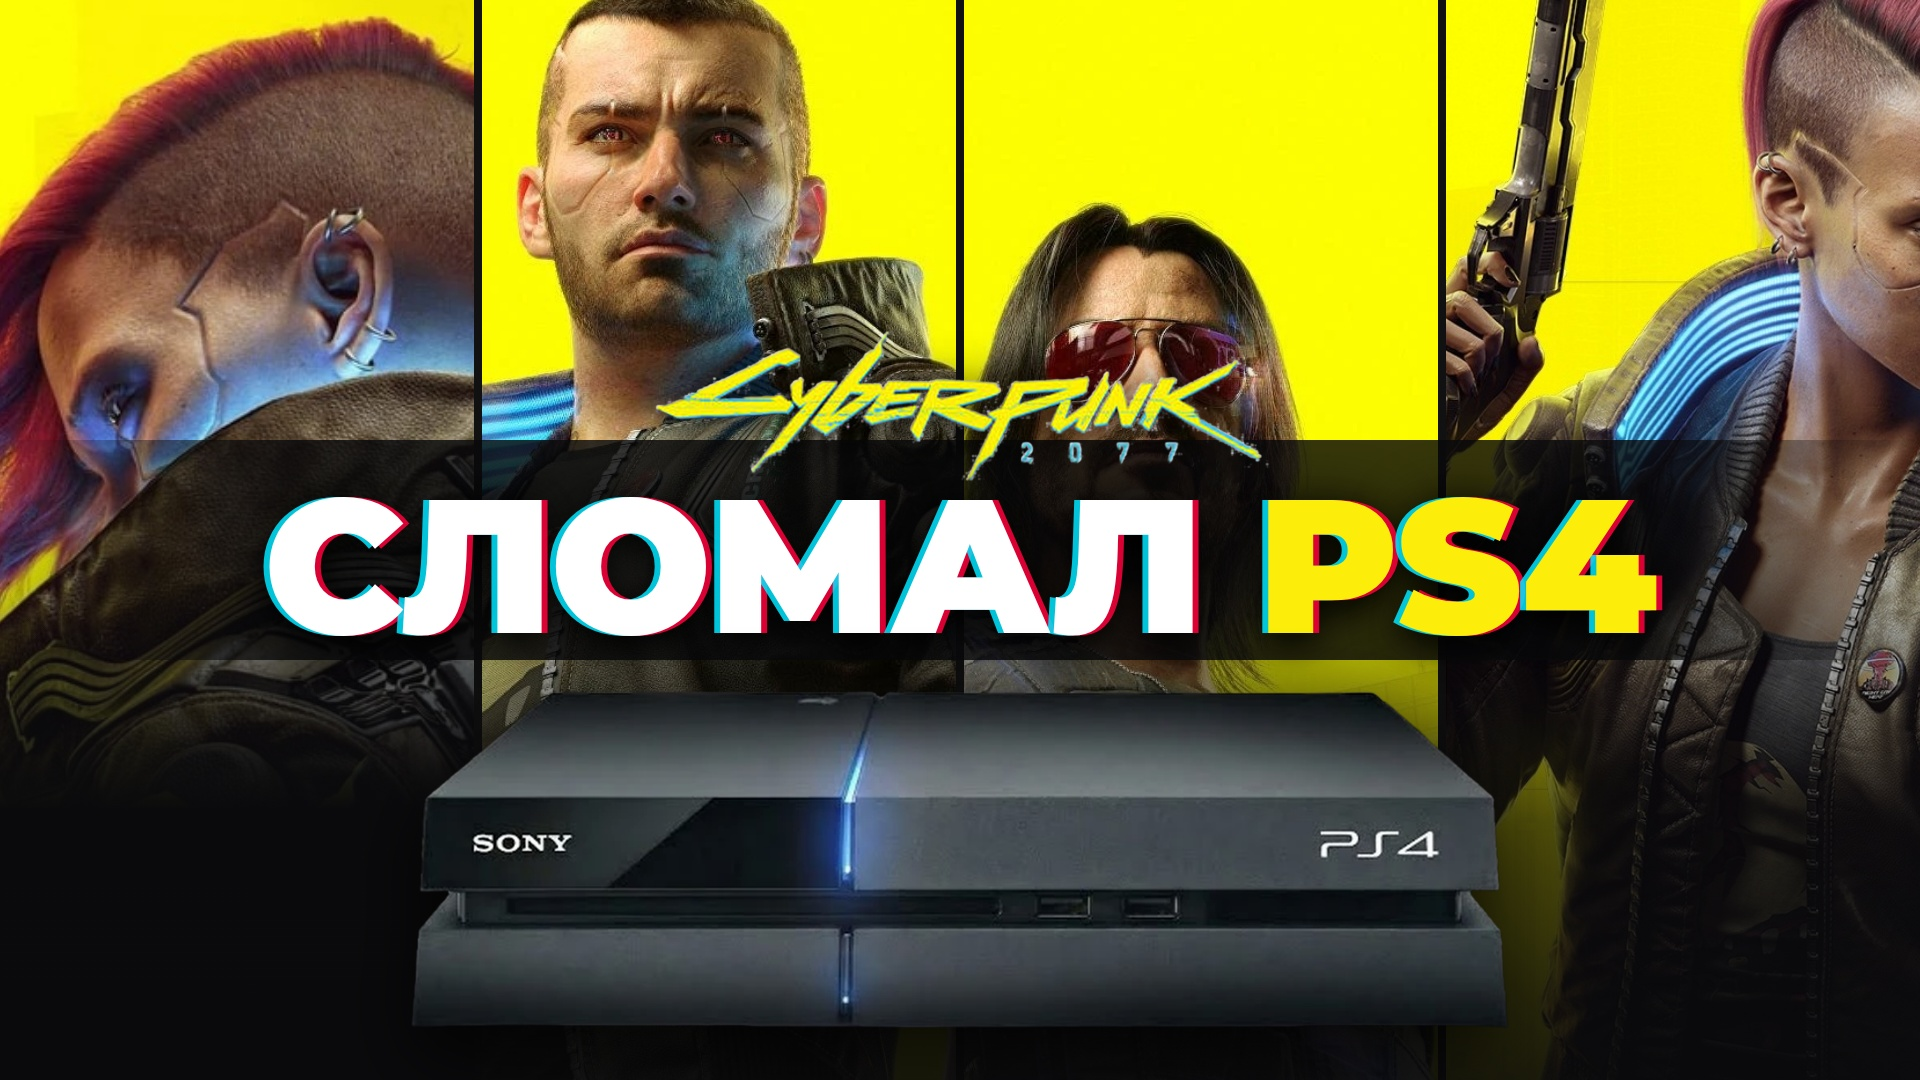
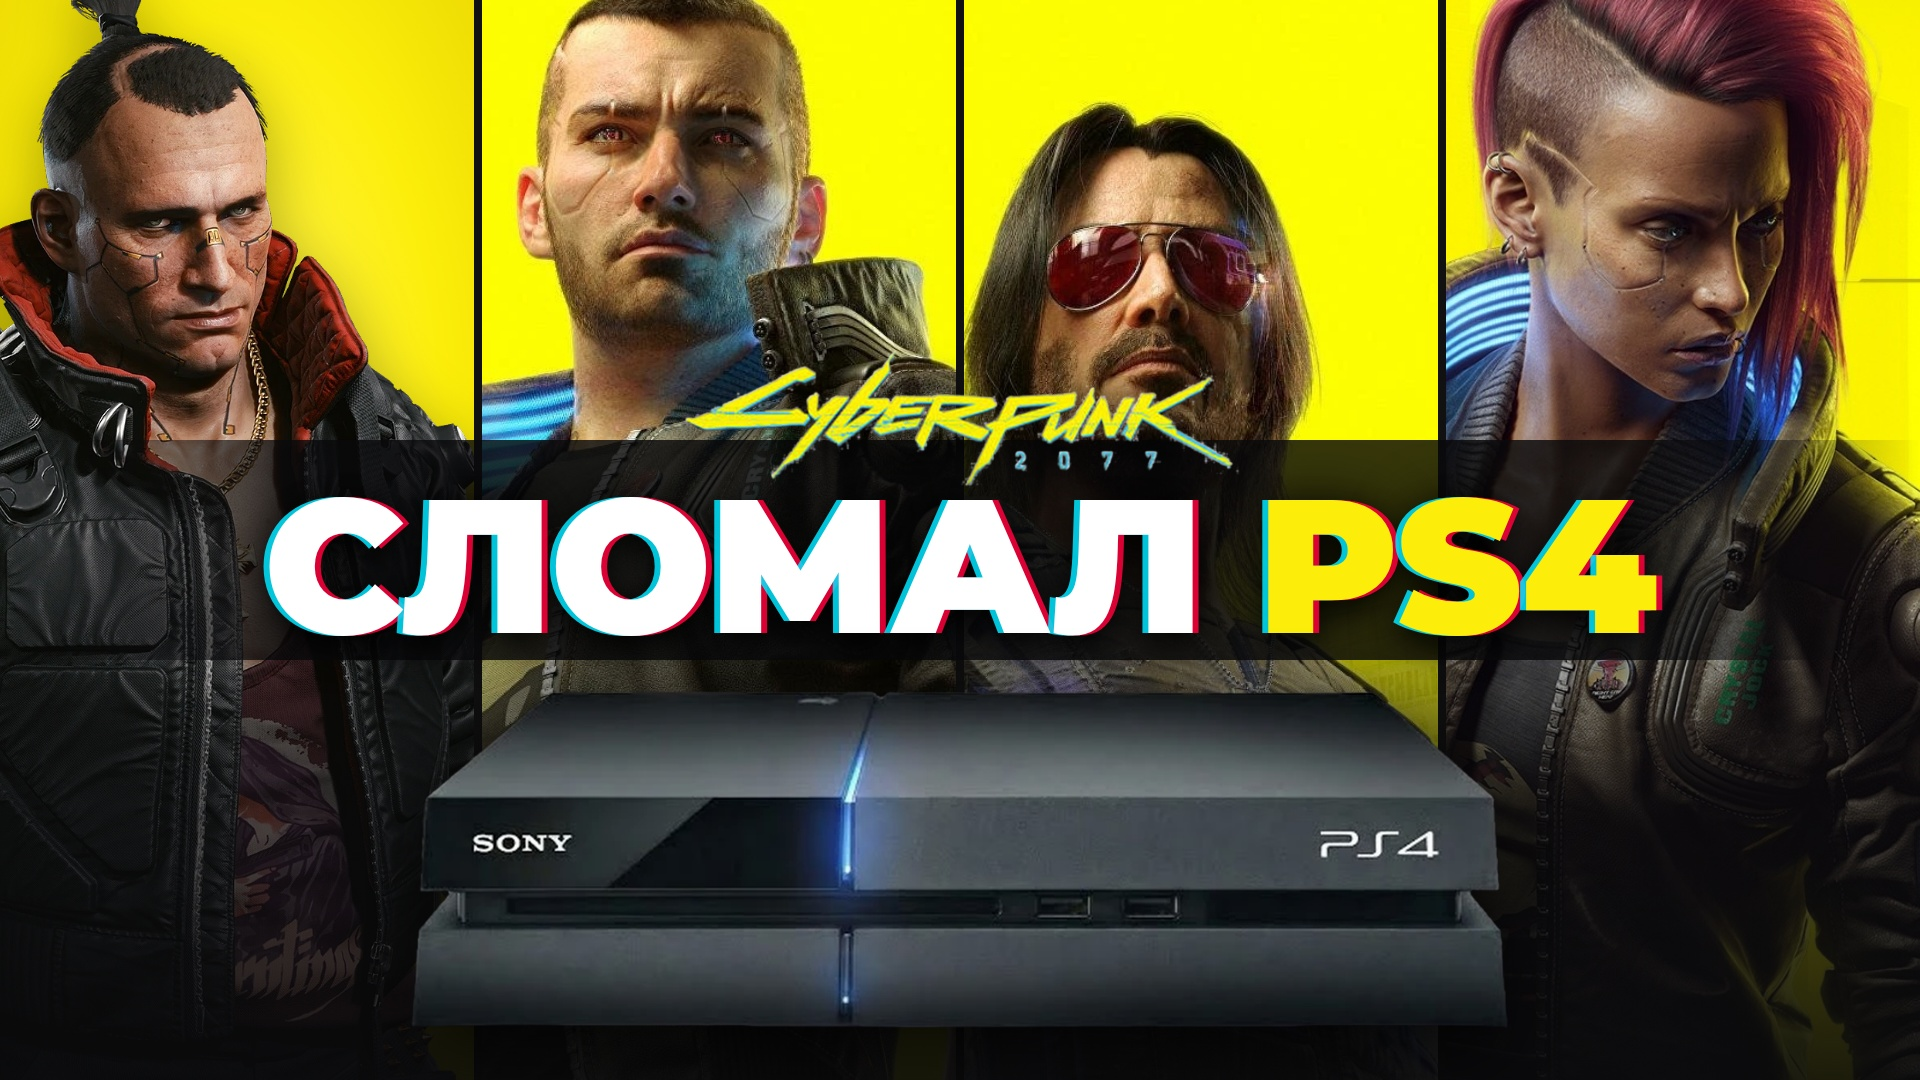
Cyberpunk thumbnail: Jackie cutout, faces fully visible
Claude-Session: https://claude.ai/code/session_01RHFrx85Hg5RpkQEmnVQQfw

diff --git a/cyberpunk/thumb/thumb2.html b/cyberpunk/thumb/thumb2.html
@@ -10,13 +10,13 @@ html,body{width:1920px;height:1080px;overflow:hidden;background:#111;font-family
 .t{position:absolute;left:0;width:1920px;text-align:center;top:470px;font-weight:900;font-size:150px;color:#fff;letter-spacing:-.01em;line-height:1;text-shadow:-6px 0 0 rgba(0,229,255,.85),6px 0 0 rgba(255,0,60,.85),0 0 50px rgba(0,0,0,.8),0 12px 30px rgba(0,0,0,.7)}
 .t b{color:#fcee0a}
 .band{position:absolute;left:0;right:0;top:440px;height:220px;background:linear-gradient(90deg,rgba(10,10,12,0),rgba(10,10,12,.82) 15%,rgba(10,10,12,.82) 85%,rgba(10,10,12,0))}
-.logo{position:absolute;left:50%;transform:translateX(-50%);top:330px;width:620px;filter:drop-shadow(0 10px 25px rgba(0,0,0,.9))}
+.logo{position:absolute;left:50%;transform:translateX(-50%);top:350px;width:560px;filter:drop-shadow(0 10px 25px rgba(0,0,0,.9))}
 .x{position:absolute;left:50%;transform:translateX(-50%);top:700px}
 </style></head><body>
-<div class="p" style="left:0px;width:474px"><div class="bg" style="background:#fcee0a url(/cyberpunk/assets/y_back.jpg) no-repeat;background-size:auto 1800px;background-position:-400px -40px"></div><div style="position:absolute;inset:0;background:linear-gradient(0deg,#0b0b0d 0%,#0b0b0d 25%,rgba(11,11,13,0) 45%)"></div></div>
+<div class="p" style="left:0px;width:474px"><div class="bg" style="background:radial-gradient(ellipse 80% 70% at 50% 40%,#fff35a,#fcee0a 55%,#e8d400)"></div><img src="/cyberpunk/assets/jackie_cut.png" style="position:absolute;height:1350px;left:-330px;top:-30px;filter:drop-shadow(0 20px 30px rgba(0,0,0,.35))"></div>
 <div class="p" style="left:482px;width:474px"><div class="bg" style="background:#fcee0a url(/cyberpunk/assets/y_duo.jpg) no-repeat;background-size:auto 1250px;background-position:-640px -40px"></div></div>
-<div class="p" style="left:964px;width:474px"><div class="bg" style="background:#fcee0a url(/cyberpunk/assets/y_duo.jpg) no-repeat;background-size:auto 1250px;background-position:-1380px -40px"></div></div>
-<div class="p" style="left:1446px;width:474px"><div class="bg" style="background:#fcee0a url(/cyberpunk/assets/y_femv.jpg) no-repeat;background-size:auto 1200px;background-position:-260px -20px"></div></div>
+<div class="p" style="left:964px;width:474px"><div class="bg" style="background:#fcee0a url(/cyberpunk/assets/y_duo.jpg) no-repeat;background-size:auto 1300px;background-position:-1436px -150px"></div></div>
+<div class="p" style="left:1446px;width:474px"><div class="bg" style="background:#fcee0a url(/cyberpunk/assets/y_femv.jpg) no-repeat;background-size:auto 1200px;background-position:-530px -20px"></div></div>
 <div class="shade"></div><div class="band"></div>
 <img class="logo" id="logo" src="/cyberpunk/assets/cp_logo.png">
 <div class="t" id="t">PS4 <b>НЕ ВЫДЕРЖАЛА</b></div>
